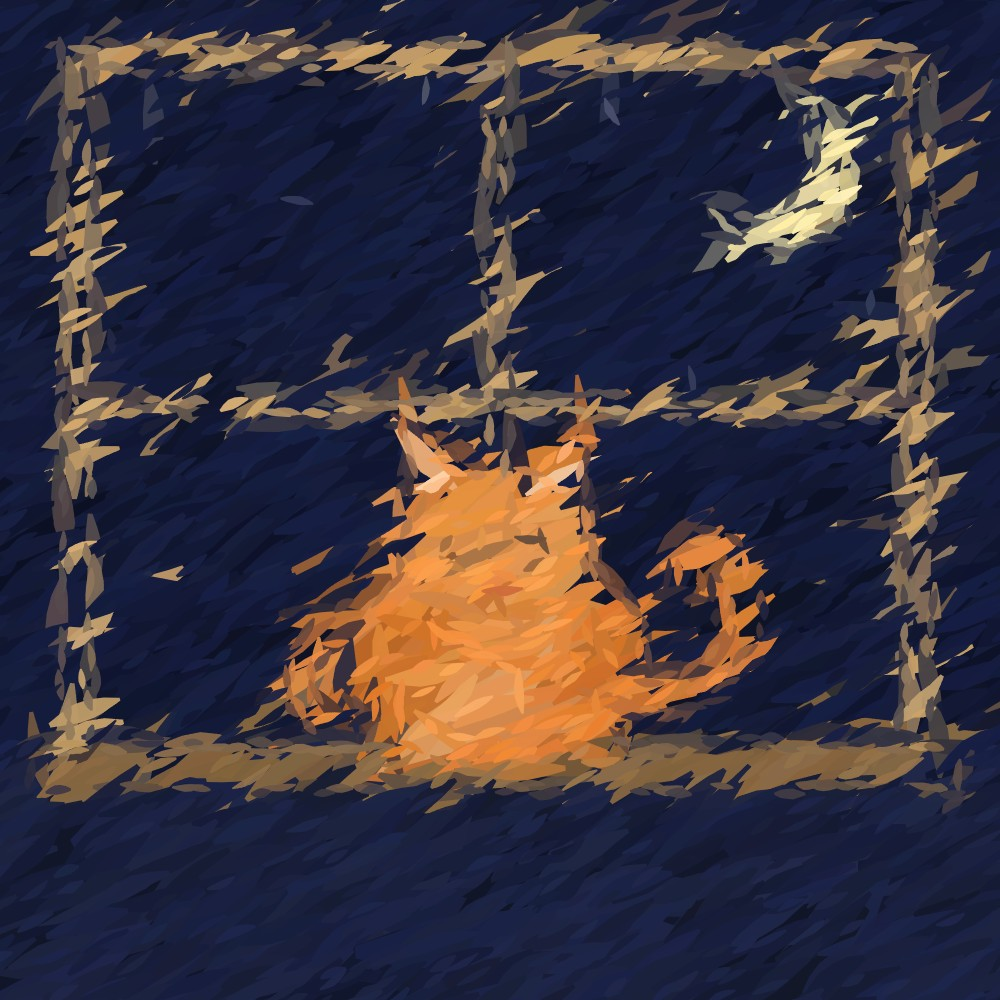
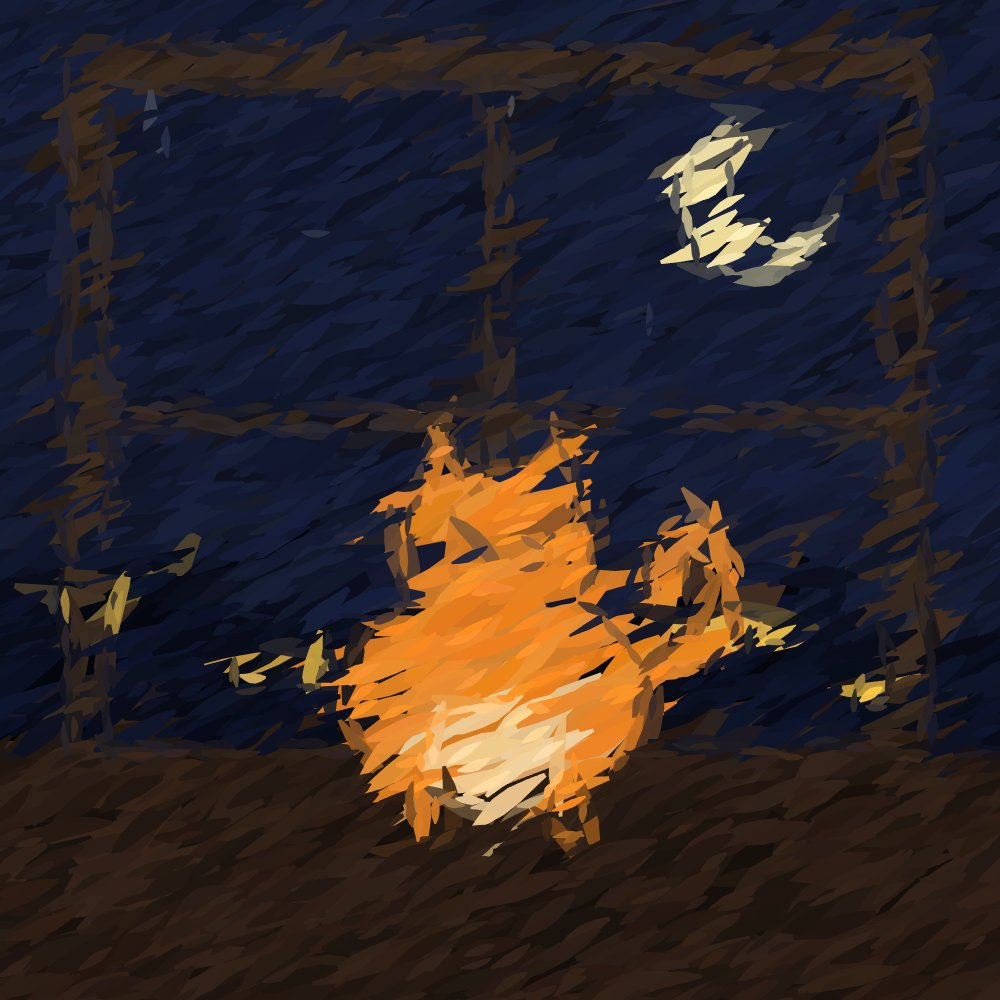
Update hero image

diff --git a/README.zh-CN.md b/README.zh-CN.md
@@ -10,7 +10,7 @@
 
 ![星空下窗台上的橘猫油画](docs/images/hero-cat.jpg)
 
-<p align="center"><sub>真实输出——“一只橘猫坐在窗台上，窗外是星空”，经典笔触，3419 笔。</sub></p>
+<p align="center"><sub>真实输出——“一只橘猫坐在窗台上，窗外是星空”，经典笔触。</sub></p>
 
 支持两种介质：**扁平色块**，以及完全由笔触组成的**油画**。油画又分两种笔触风格：**经典笔触**与**色块铺陈**。还可以上传一张**参考图**，用同一套笔触方案解析并重绘它；描述可留空，也可以用来做整体调色（暖/冷、黑白、明暗、对比），构图不变。零运行时依赖：Node 内置 HTTP、纯 JS 渲染器、浏览器原生 ES 模块。
 

diff --git a/README.md b/README.md
@@ -16,7 +16,7 @@ browser-native ES modules.
 
 ![An oil painting of a ginger cat on a windowsill under a starry sky](docs/images/hero-cat.jpg)
 
-<p align="center"><sub>Actual output — “A ginger cat sitting on a windowsill, starry sky outside.” Classic brush, 3,419 strokes.</sub></p>
+<p align="center"><sub>Actual output — “A ginger cat sitting on a windowsill, starry sky outside.” Classic brush.</sub></p>
 
 ## Highlights
 
